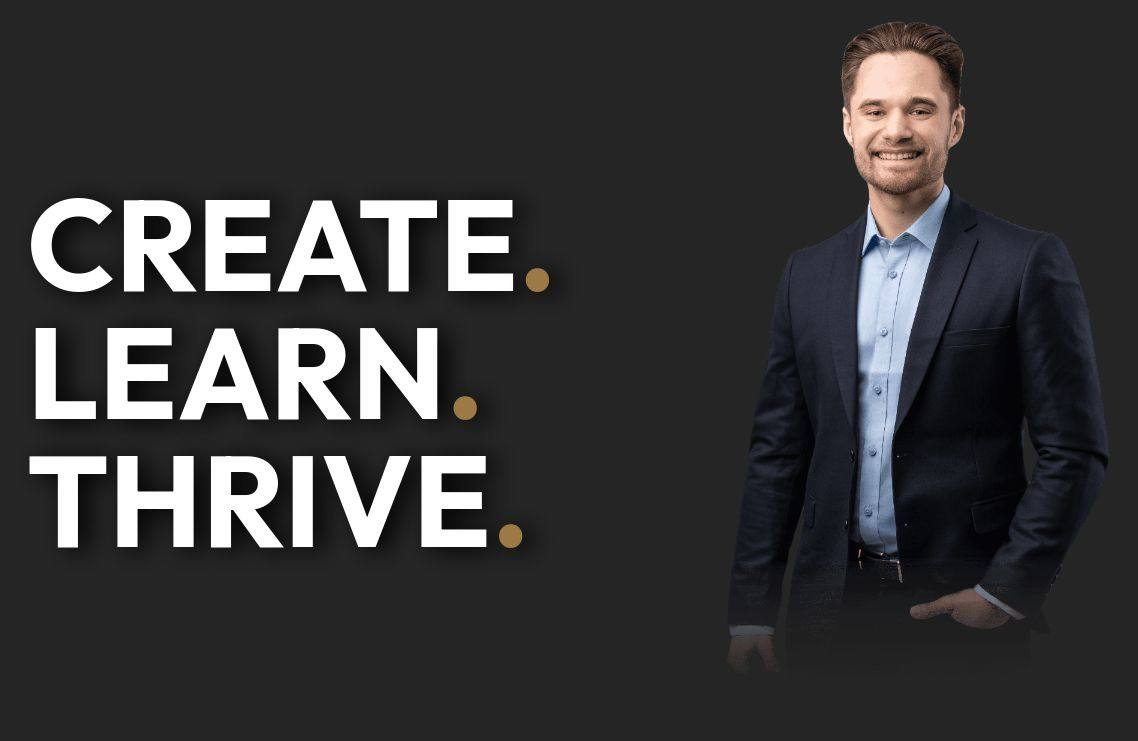
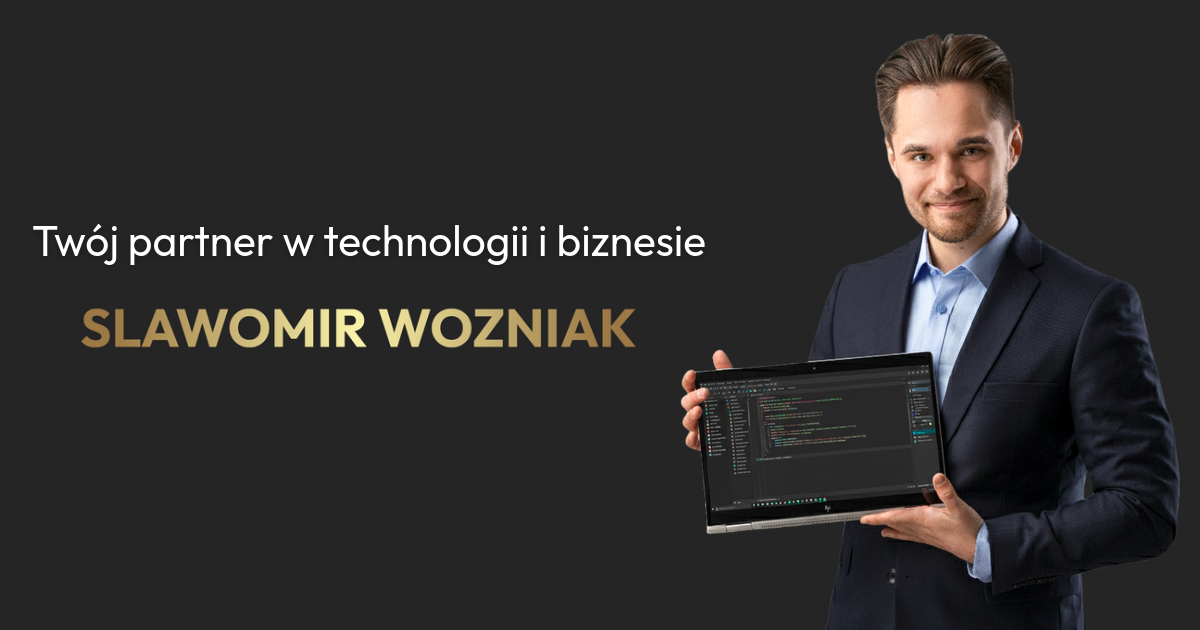
update hero and og-image

Changed region(s): [[0.5536, 0.0302, 0.9842, 1.0], [0.0308, 0.2413, 0.5844, 0.573], [0.0, 0.6032, 0.4613, 0.754]]

diff --git a/components/Hero.vue b/components/Hero.vue
@@ -8,7 +8,7 @@
           <span class="text-[var(--primary-color)]">.</span>
         </h1>
         <div class="text-lg sm:text-xl md:text-2xl mb-6 md:mb-8 text-[var(--secondary-text-color)] font-light">
-          {{ $t("hero.software.engineering") }}
+          {{ $t("hero.subtitle") }}
         </div>
         <ul class="space-y-3 md:space-y-4 text-base md:text-lg mb-8 md:mb-12">
           <li class="flex items-center text-[var(--primary-text-color)]">
